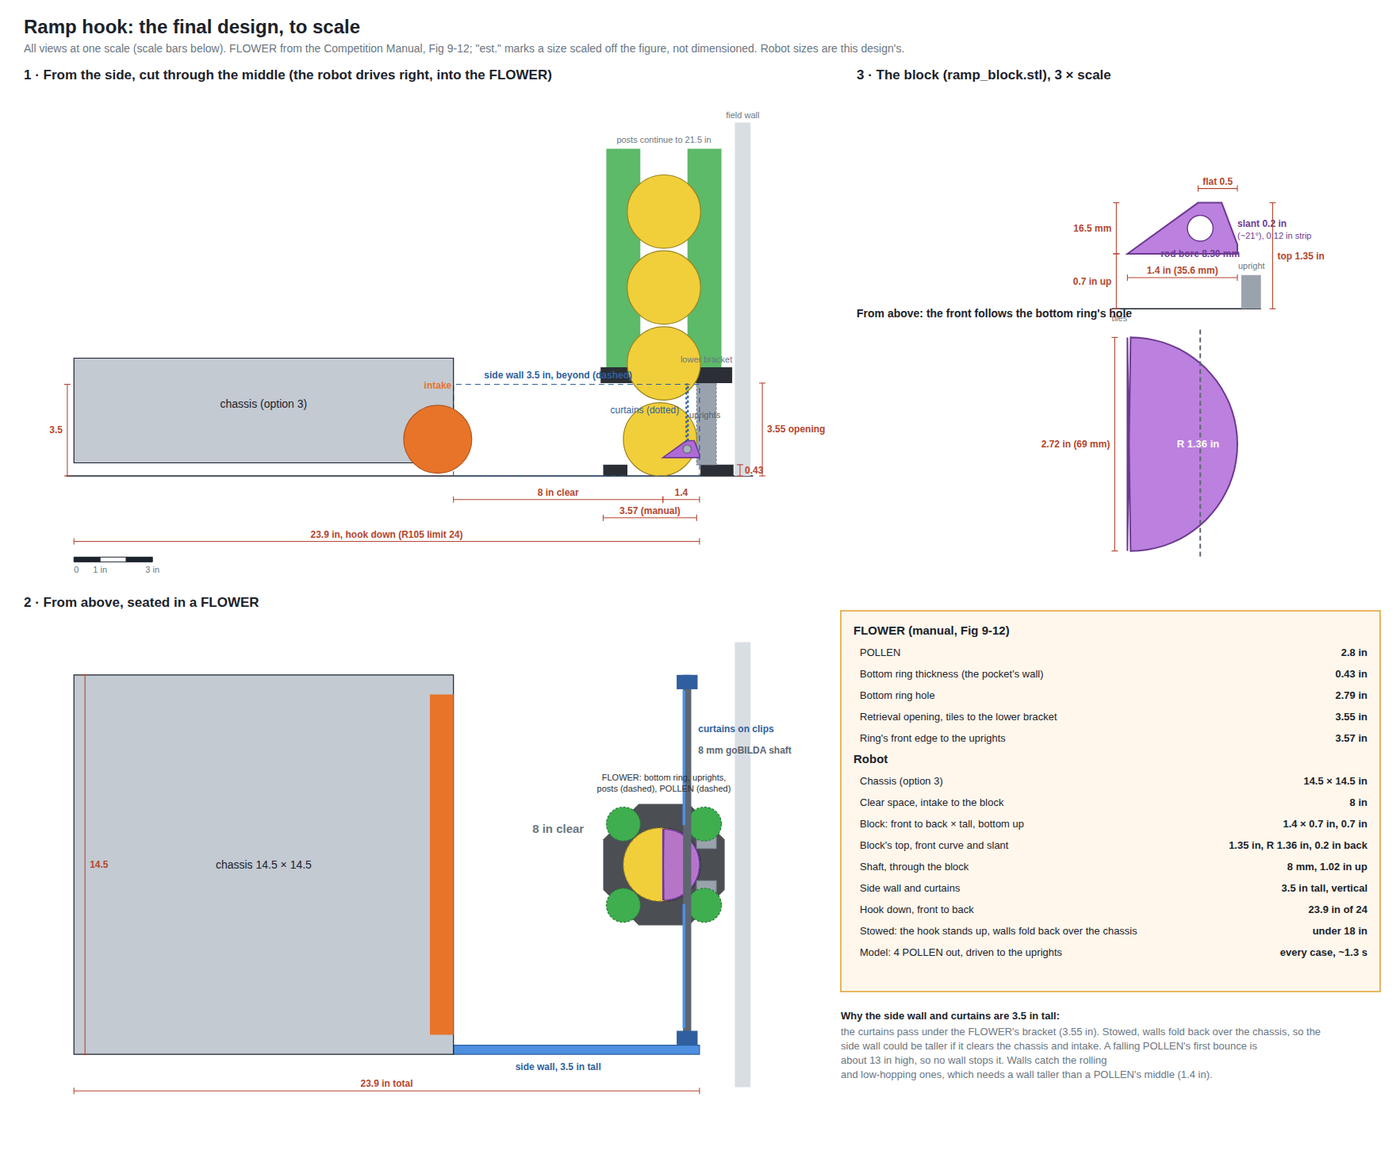
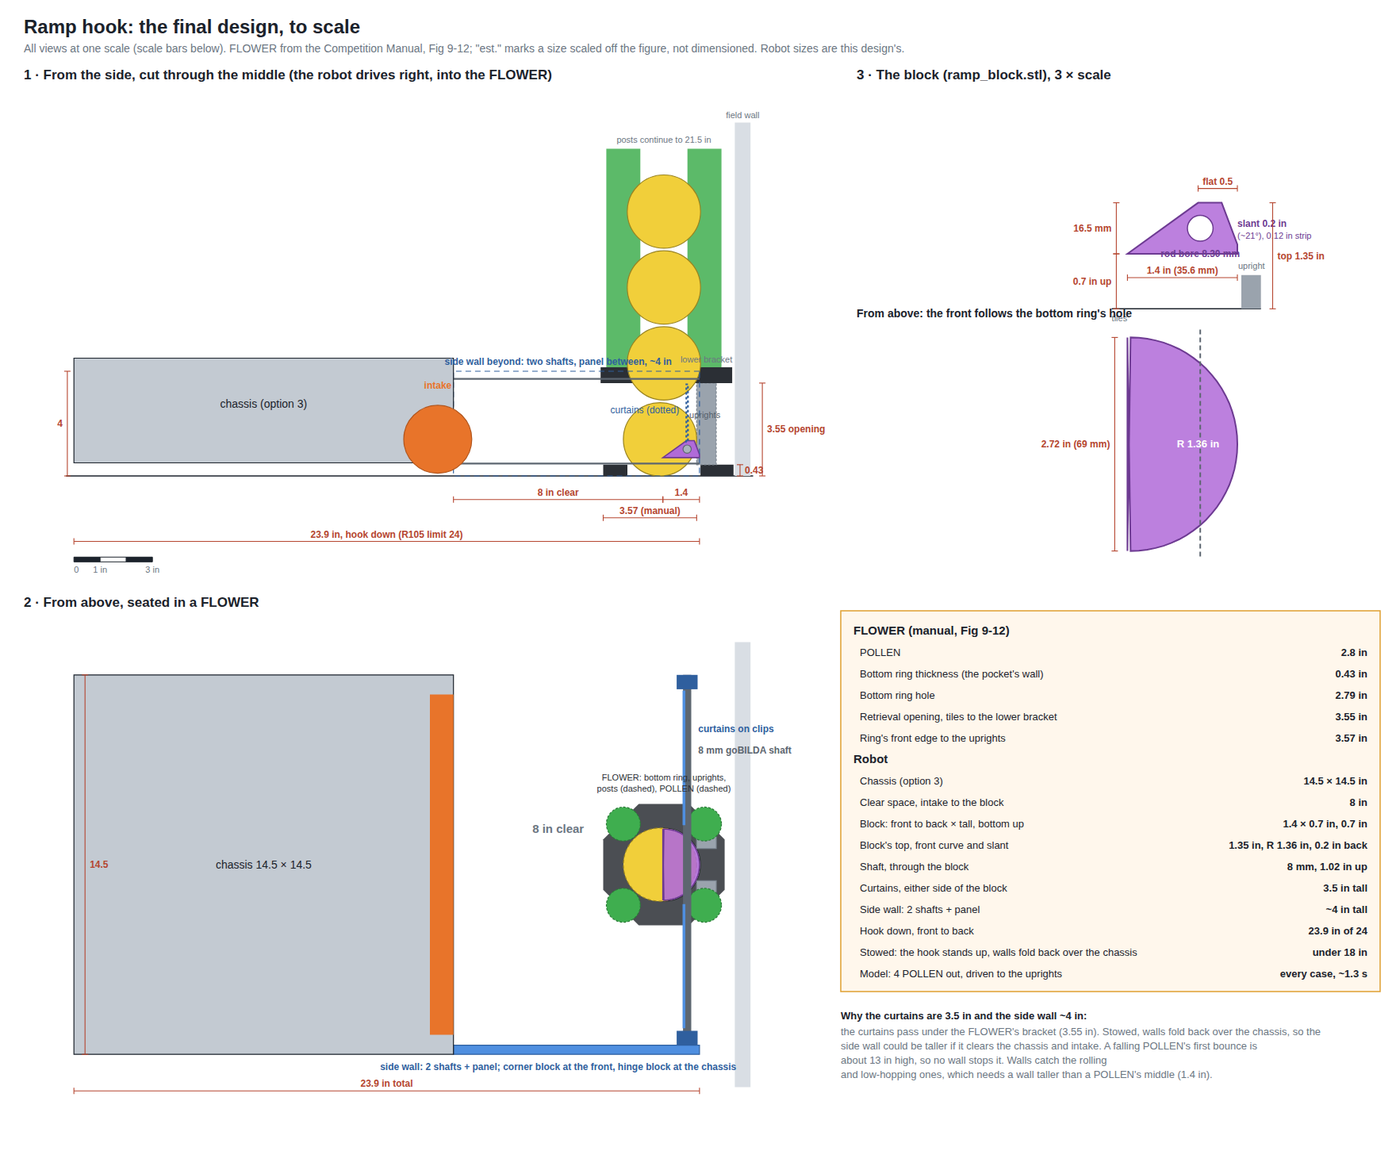
Ramp hook: side wall as a two-shaft ladder, with printed corner and hinge blocks
The side wall uses the same 8 mm shafts, clips and polycarbonate as the front:
two shafts (bottom and ~4 in top) with a panel between. corner_block.stl joins
them to the front shaft; hinge_block.stl turns on an 8 mm axle at the chassis.
README, parts picture, final sheet and doc updated.

Claude-Session: https://claude.ai/code/session_01JdYEXnCQjRUKj5bqHN7SCK

diff --git a/cad/ramp-hook/parts.py b/cad/ramp-hook/parts.py
@@ -1,7 +1,7 @@
 """Printable parts for the ramp hook's FLOWER block, threaded on a stock rod (cad/ramp-hook/README.md).
 
     pip install trimesh manifold3d
-    python3 cad/ramp-hook/parts.py          # writes ramp_block.stl, curtain_clip.stl, end_block.stl, fit_coupon.stl
+    python3 cad/ramp-hook/parts.py          # writes ramp_block, curtain_clip, end_block, corner_block, hinge_block, fit_coupon .stl
 
 Millimetres, Z up, each part flat on the bed as it should print. Every size is a constant below, so a part can be
 re-run after Thursday's measurements. The block's shape is the one tools/ramp-hook/ramp.py likes best against the
@@ -35,6 +35,14 @@ SCREW_D = 2.6                # M3 self-tapping set screws from underneath, into 
 PANEL_T = 1.6                # 1/16 in polycarbonate curtain
 CLIP_W = 16.0                # along the rod
 END_HOLE_D, END_HOLE_PITCH = 4.2, 16.0   # M4, 16 mm apart: lines up with goBILDA's 8 mm grid of 4 mm holes
+# ---- the side wall: a ladder of two 8 mm shafts with a polycarbonate panel clipped between them ----
+GAP = 8.0 * IN               # clear space, chassis face to the block's back edge
+HINGE_X = -GAP               # the chassis' front face, in this frame (x from the block's back edge)
+SIDE_Y = 7.25 * IN - 8.0     # the side wall's rods, 8 mm in from the robot's right edge (14.5 in wide)
+SIDE_Z_LO = 12.0             # bottom rod centre above the tiles
+SIDE_Z_HI = 4.0 * IN - 7.5   # top rod centre: a clip flipped over it tops out at 4 in
+PIVOT_Z = 40.0               # hinge axle above the tiles, clear of the bottom rod's bore
+BORE = ROD_D + FIT
 
 
 def prism_xz(points, y0, y1):
@@ -104,6 +112,69 @@ def end_block():
     return body.difference(trimesh.util.concatenate(holes))
 
 
+def x_hole(x0, x1, y, z, d):
+    """A bore along x from x0 to x1."""
+    c = cylinder(radius=d / 2, height=x1 - x0, sections=48)
+    c.apply_transform(trimesh.transformations.rotation_matrix(math.pi / 2, [0, 1, 0]))
+    c.apply_translation([(x0 + x1) / 2, y, z])
+    return c
+
+
+def y_hole(y0, y1, x, z, d):
+    """A bore along y from y0 to y1."""
+    c = cylinder(radius=d / 2, height=y1 - y0, sections=48)
+    c.apply_transform(trimesh.transformations.rotation_matrix(math.pi / 2, [1, 0, 0]))
+    c.apply_translation([x, (y0 + y1) / 2, z])
+    return c
+
+
+def z_hole(z0, z1, x, y, d):
+    c = cylinder(radius=d / 2, height=z1 - z0, sections=24)
+    c.apply_translation([x, y, (z0 + z1) / 2])
+    return c
+
+
+def slab(x0, x1, y0, y1, z0, z1):
+    b = box(extents=[x1 - x0, y1 - y0, z1 - z0])
+    b.apply_translation([(x0 + x1) / 2, (y0 + y1) / 2, (z0 + z1) / 2])
+    return b
+
+
+def corner_block():
+    """The hook's front-right corner, in the hook's frame (x from the block's back edge, y to the robot's right, z up).
+    Holds the front shaft's right end (along y) and the side wall's two rods' front ends (along x), all blind, at
+    three different heights so the bores never meet. M3 set screws into each."""
+    x0, x1 = ROD_X - 14.0, DEPTH
+    y0, y1 = SIDE_Y - 10.0, SIDE_Y + 8.0
+    z0, z1 = 2.0, SIDE_Z_HI + 10.0
+    body = slab(x0, x1, y0, y1, z0, z1)
+    holes = [y_hole(y0 - 1, SIDE_Y + 4.0, ROD_X, ROD_Z, BORE),                  # front shaft, from the inside
+             x_hole(x0 - 1, ROD_X + 6.0, SIDE_Y, SIDE_Z_LO, BORE),               # side wall, bottom rod
+             x_hole(x0 - 1, ROD_X + 6.0, SIDE_Y, SIDE_Z_HI, BORE),               # side wall, top rod
+             y_hole(SIDE_Y + 3.0, y1 + 1, ROD_X, ROD_Z, SCREW_D),                # set screw into the front shaft
+             z_hole(z0 - 1, SIDE_Z_LO, ROD_X - 6.0, SIDE_Y, SCREW_D),            # ...into the bottom rod
+             z_hole(SIDE_Z_HI, z1 + 1, ROD_X - 6.0, SIDE_Y, SCREW_D)]            # ...into the top rod
+    return body.difference(trimesh.util.concatenate(holes))
+
+
+def hinge_block():
+    """The side wall's back end, at the chassis' front face. Holds the two rods' back ends (blind, along x) and turns
+    on an 8 mm goBILDA shaft (along y) carried in bearings or pillow blocks on the chassis. The hook swings up about
+    it to stow."""
+    x0, x1 = HINGE_X + 2.0, HINGE_X + 36.0
+    y0, y1 = SIDE_Y - 24.0, SIDE_Y + 8.0
+    z0, z1 = 2.0, SIDE_Z_HI + 10.0
+    body = slab(x0, x1, y0, y1, z0, z1)
+    pivot_x = HINGE_X + 10.0
+    holes = [x_hole(x1 - 20.0, x1 + 1, SIDE_Y, SIDE_Z_LO, BORE),
+             x_hole(x1 - 20.0, x1 + 1, SIDE_Y, SIDE_Z_HI, BORE),
+             y_hole(y0 - 1, y1 + 1, pivot_x, PIVOT_Z, BORE),                   # the hinge axle, right through
+             z_hole(z0 - 1, SIDE_Z_LO, x1 - 10.0, SIDE_Y, SCREW_D),
+             z_hole(SIDE_Z_HI, z1 + 1, x1 - 10.0, SIDE_Y, SCREW_D),
+             z_hole(PIVOT_Z, z1 + 1, pivot_x, SIDE_Y - 12.0, SCREW_D)]          # locks the block to the axle
+    return body.difference(trimesh.util.concatenate(holes))
+
+
 def fit_coupon():
     """Four short bores at 0.1 mm steps around ROD_D + FIT: slide the rod in, keep the snug one."""
     parts, holes = [], []
@@ -116,6 +187,7 @@ def fit_coupon():
 def main():
     out = {}
     for name, fn in (("ramp_block", ramp_block), ("curtain_clip", curtain_clip), ("end_block", end_block),
+                     ("corner_block", corner_block), ("hinge_block", hinge_block),
                      ("fit_coupon", fit_coupon)):
         m = fn()
         m.apply_translation([0, 0, -m.bounds[0][2]])

diff --git a/tools/ramp-hook/final_sheet.py b/tools/ramp-hook/final_sheet.py
@@ -38,7 +38,8 @@ TIP = FC - ARC_R                # the block's tip on the centreline (the curve i
 BACK = TIP + DEPTH              # the block's back edge
 ROD_X, ROD_Z, ROD_R = TIP + (P.DEPTH - P.ROD_X) / IN, P.ROD_Z / IN, P.ROD_D / IN / 2
 FACE = BACK + GAP               # chassis front face (the intake)
-WALL_H = 3.5                    # side wall and curtains: the curtains pass under the FLOWER's bracket (3.55)
+WALL_H = 3.5                    # curtains: they pass under the FLOWER's bracket (3.55)
+SIDE_H = 4.0                    # side wall: a ladder of two 8 mm shafts with a panel between, ~4 in to the top clips
 CURT_B = 1.3                    # curtains' bottom, on the clips
 HW = CH / 2
 
@@ -120,14 +121,16 @@ poly([(X(TIP), Z(BOTTOM)), (X(TIP), Z(BOTTOM + LA)), (X(TIP + SL), Z(TOP)), (X(T
 circle(X(ROD_X), Z(ROD_Z), ROD_R * K, fill=ALU, stroke="#5d6670")
 # curtains (beyond, either side of the block) and the side wall (beyond)
 poly([(X(ROD_X - 0.03), Z(WALL_H)), (X(ROD_X + 0.03), Z(WALL_H)), (X(ROD_X + 0.03), Z(CURT_B)), (X(ROD_X - 0.03), Z(CURT_B))], stroke=DBLUE, sw=2.2, dash="3 3")
-poly([(X(TIP), Z(WALL_H)), (X(FACE), Z(WALL_H)), (X(FACE), Z(0)), (X(TIP), Z(0))], stroke=DBLUE, sw=1.2, dash="7 5")
+poly([(X(TIP), Z(SIDE_H)), (X(FACE), Z(SIDE_H)), (X(FACE), Z(0)), (X(TIP), Z(0))], stroke=DBLUE, sw=1.2, dash="7 5")
+for zz in (P.SIDE_Z_LO / IN, P.SIDE_Z_HI / IN):
+    line(X(TIP), Z(zz), X(FACE), Z(zz), "#5d6670", 2.2)
 # robot
 poly([(X(FACE + CH), Z(4.5)), (X(FACE), Z(4.5)), (X(FACE), Z(0.5)), (X(FACE + CH), Z(0.5))], fill=GREY, stroke=INK)
 circle(X(FACE + 0.6), Z(1.4), 1.3 * K, fill=ORANGE, stroke="#b2561d")
 text(X(FACE + CH / 2), Z(2.6), "chassis (option 3)", 14, INK, "middle")
 text(X(FACE + 0.6), Z(3.2) - 4, "intake", 12, ORANGE, "middle", 700)
 # labels and dimensions
-text(X(GAP / 2 + BACK), Z(WALL_H) - 8, f"side wall {WALL_H:g} in, beyond (dashed)", 12, DBLUE, "middle", 700)
+text(X(GAP / 2 + BACK), Z(SIDE_H) - 8, f"side wall beyond: two shafts, panel between, ~{SIDE_H:g} in", 12, DBLUE, "middle", 700)
 text(X(ROD_X) - 10, Z(2.4), "curtains (dotted)", 12, DBLUE, "end")
 text(X(UP_FACE - UP_T / 2), Z(OPEN / 2) + 4, "", 11)
 dim(X(FACE), Z(-0.9), X(BACK), Z(-0.9), f"{GAP:g} in clear")
@@ -136,7 +139,7 @@ dim(X(FACE + CH), Z(-2.5), X(TIP), Z(-2.5), f"{CH + FACE - TIP:.1f} in, hook dow
 dim(X(RING_FRONT), Z(-1.6), X(UP_FACE), Z(-1.6), "3.57 (manual)")
 dim(X(-0.2), Z(0), X(-0.2), Z(RING_T), "0.43", 1)
 dim(X(-1.05), Z(0), X(-1.05), Z(OPEN), "3.55 opening", 1)
-dim(X(FACE + CH + 0.25), Z(0), X(FACE + CH + 0.25), Z(WALL_H), f"{WALL_H:g}", -1)
+dim(X(FACE + CH + 0.25), Z(0), X(FACE + CH + 0.25), Z(SIDE_H), f"{SIDE_H:g}", -1)
 text(X(UP_FACE - UP_T / 2), Z(OPEN) - BRACKET_T * K - 6, "lower bracket", 11, DIM, "middle")
 text(X(UP_FACE - UP_T / 2) - 2, Z(2.2), "uprights", 11, "#55606b", "middle")
 scale_bar(X(FACE + CH), Z(-3.1), K)
@@ -178,7 +181,7 @@ poly([(X(FACE + CH), Y(-HW)), (X(FACE), Y(-HW)), (X(FACE), Y(HW)), (X(FACE + CH)
 poly([(X(FACE + 0.9), Y(-6.5)), (X(FACE), Y(-6.5)), (X(FACE), Y(6.5)), (X(FACE + 0.9), Y(6.5))], fill=ORANGE, stroke="none")
 text(X(FACE + CH / 2), Y(0) + 5, "chassis 14.5 × 14.5", 14, INK, "middle")
 text(X(BACK + GAP / 2), Y(-1.2), "8 in clear", 15, DIM, "middle", 700)
-text(X(BACK + GAP / 2), Y(HW) + 20, f"side wall, {WALL_H:g} in tall", 12, DBLUE, "middle", 700)
+text(X(BACK + GAP / 2), Y(HW) + 20, "side wall: 2 shafts + panel; corner block at the front, hinge block at the chassis", 12, DBLUE, "middle", 700)
 text(X(ROD_X) + 14, Y(-HW + 2.2), "curtains on clips", 12, DBLUE, "start", 700)
 text(X(ROD_X) + 14, Y(-HW + 3.0), "8 mm goBILDA shaft", 12, "#5d6670", "start", 700)
 text(X(FC), Y(-3.2), "FLOWER: bottom ring, uprights,", 11, BLK, "middle")
@@ -231,7 +234,8 @@ rows = [("FLOWER (manual, Fig 9-12)", None),
         ("Block: front to back × tall, bottom up", f"{DEPTH:g} × {TOP - BOTTOM:.1f} in, {BOTTOM:g} in"),
         ("Block's top, front curve and slant", f"{TOP:g} in, R {ARC_R:.2f} in, {P.SLANT / IN:g} in back"),
         ("Shaft, through the block", f"8 mm, {ROD_Z:.2f} in up"),
-        ("Side wall and curtains", f"{WALL_H:g} in tall, vertical"),
+        ("Curtains, either side of the block", f"{WALL_H:g} in tall"),
+        ("Side wall: 2 shafts + panel", f"~{SIDE_H:g} in tall"),
         ("Hook down, front to back", f"{CH + FACE - TIP:.1f} in of 24"),
         ("Stowed: the hook stands up, walls fold back over the chassis", "under 18 in"),
         ("Model: 4 POLLEN out, driven to the uprights", "every case, ~1.3 s")]
@@ -243,7 +247,7 @@ for label, val in rows:
         text(bx0 + 24, y, label, 13, INK)
         text(1724, y, val, 13, INK, "end", 700)
     y += 27
-text(1060, 1285, f"Why the side wall and curtains are {WALL_H:g} in tall:", 13, INK, "start", 700)
+text(1060, 1285, f"Why the curtains are {WALL_H:g} in and the side wall ~{SIDE_H:g} in:", 13, INK, "start", 700)
 text(1060, 1305, "the curtains pass under the FLOWER's bracket (3.55 in). Stowed, walls fold back over the chassis, so the", 13, DIM)
 text(1060, 1323, "side wall could be taller if it clears the chassis and intake. A falling POLLEN's first bounce is", 13, DIM)
 text(1060, 1341, "about 13 in high, so no wall stops it. Walls catch the rolling", 13, DIM)

diff --git a/cad/ramp-hook/render.py b/cad/ramp-hook/render.py
@@ -28,24 +28,43 @@ def placed(name, dx=0.0, dy=0.0, dz=0.0, rz=0.0):
 
 
 def scene():
-    """The hook's front in the tile frame, mm: x toward the FLOWER, y across the robot, z up from the tiles."""
+    """The hook in its frame, mm: x toward the FLOWER (from the block's back edge), y to the robot's right, z up."""
     items = []
-    block = placed("ramp_block", dz=P.BOTTOM)
-    items.append((block, (176, 106, 216)))
-    rod_len = 14.0 * IN
-    rod = trimesh.creation.cylinder(radius=P.ROD_D / 2, height=rod_len, sections=32)
+    steel, clipc, panelc, darkc = (170, 178, 188), (79, 143, 224), (160, 196, 240), (47, 95, 158)
+    items.append((placed("ramp_block", dz=P.BOTTOM), (176, 106, 216)))
+    # front shaft: from the left end to the corner block
+    y_left, y_right = -P.SIDE_Y, P.SIDE_Y + 4.0
+    rod = trimesh.creation.cylinder(radius=P.ROD_D / 2, height=y_right - y_left, sections=32)
     rod.apply_transform(trimesh.transformations.rotation_matrix(math.pi / 2, [1, 0, 0]))
-    rod.apply_translation([P.ROD_X, 0, P.ROD_Z])
-    items.append((rod, (170, 178, 188)))
-    clip_z = P.ROD_Z - 7.5
-    for y in (-60.0, -120.0, 60.0, 120.0):
-        items.append((placed("curtain_clip", dx=P.ROD_X, dy=y, dz=clip_z), (79, 143, 224)))
-    for y in (-rod_len / 2 + 7, rod_len / 2 - 7):
-        items.append((placed("end_block", dx=P.ROD_X, dy=y, dz=0, rz=0 if y > 0 else math.pi), (47, 95, 158)))
-    for y0, y1 in ((-rod_len / 2 + 14, -P.ARC_R - 4), (P.ARC_R + 4, rod_len / 2 - 14)):
+    rod.apply_translation([P.ROD_X, (y_left + y_right) / 2, P.ROD_Z])
+    items.append((rod, steel))
+    for y in (-P.ARC_R - 4, P.ARC_R + 4):               # clamping collars either side of the block
+        c = trimesh.creation.cylinder(radius=11, height=8, sections=32)
+        c.apply_transform(trimesh.transformations.rotation_matrix(math.pi / 2, [1, 0, 0]))
+        c.apply_translation([P.ROD_X, y + (6 if y > 0 else -6), P.ROD_Z]); items.append((c, steel))
+    for y in (-60.0, -130.0, 60.0, 130.0):
+        items.append((placed("curtain_clip", dx=P.ROD_X, dy=y, dz=P.ROD_Z - 7.5), clipc))
+    for y0, y1 in ((y_left + 6, -P.ARC_R - 16), (P.ARC_R + 16, P.SIDE_Y - 12)):
         panel = trimesh.creation.box(extents=[P.PANEL_T, y1 - y0, 3.5 * IN - 1.3 * IN])
         panel.apply_translation([P.ROD_X, (y0 + y1) / 2, 1.3 * IN + (3.5 * IN - 1.3 * IN) / 2])
-        items.append((panel, (160, 196, 240)))
+        items.append((panel, panelc))
+    # side wall: corner block, hinge block, two rods, clips (flipped on the top rod), a panel between
+    items.append((placed("corner_block", dz=2.0), darkc))
+    items.append((placed("hinge_block", dz=2.0), darkc))
+    x0, x1 = P.HINGE_X + 16.0, P.ROD_X + 6.0
+    for z in (P.SIDE_Z_LO, P.SIDE_Z_HI):
+        r = trimesh.creation.cylinder(radius=P.ROD_D / 2, height=x1 - x0, sections=32)
+        r.apply_transform(trimesh.transformations.rotation_matrix(math.pi / 2, [0, 1, 0]))
+        r.apply_translation([(x0 + x1) / 2, P.SIDE_Y, z]); items.append((r, steel))
+    for x in (-140.0, -50.0):
+        items.append((placed("curtain_clip", dx=x, dy=P.SIDE_Y, dz=P.SIDE_Z_LO - 7.5, rz=math.pi / 2), clipc))
+        top = trimesh.load(os.path.join(HERE, "curtain_clip.stl"))
+        top.apply_transform(trimesh.transformations.rotation_matrix(math.pi, [1, 0, 0]))
+        top.apply_transform(trimesh.transformations.rotation_matrix(math.pi / 2, [0, 0, 1]))
+        top.apply_translation([x, P.SIDE_Y, P.SIDE_Z_HI + 7.5]); items.append((top, clipc))
+    side = trimesh.creation.box(extents=[(P.ROD_X - 14) - (P.HINGE_X + 36), P.PANEL_T, P.SIDE_Z_HI - P.SIDE_Z_LO - 13])
+    side.apply_translation([((P.ROD_X - 14) + (P.HINGE_X + 36)) / 2, P.SIDE_Y, (P.SIDE_Z_LO + P.SIDE_Z_HI) / 2])
+    items.append((side, panelc))
     return items
 
 
@@ -87,10 +106,10 @@ def main():
          '<rect width="100%" height="100%" fill="#ffffff"/>']
     t = lambda x, y, s, size=15, fill="#1b222b", anchor="start", w=400: o.append(
         f'<text x="{x}" y="{y}" font-size="{size}" fill="{fill}" text-anchor="{anchor}" font-weight="{w}">{s}</text>')
-    t(30, 40, "Ramp hook: printed parts on a goBILDA 8 mm shaft", 22, w=700)
-    t(30, 64, "Purple: the FLOWER block (curved front nests between the grey uprights). Blue: curtain clips and end blocks. Light blue: 1/16 in polycarbonate curtains.", 14, "#6b7682")
-    o += draw(scene(), 470, 470, 1.55)
-    t(470, 850, "The hook's front, 3/4 view from the FLOWER side. The block sits in the middle, the curtains either side.", 14, "#6b7682", "middle")
+    t(30, 40, "Ramp hook: printed parts on goBILDA 8 mm shafts", 22, w=700)
+    t(30, 64, "Purple: the FLOWER block. Dark blue: corner block and hinge block. Blue: clips. Light blue: 1/16 in polycarbonate. The side wall is a ladder: two shafts, a panel between.", 14, "#6b7682")
+    o += draw(scene(), 560, 470, 1.25)
+    t(470, 850, "The whole hook, 3/4 view from the FLOWER side: the block in the middle of the front shaft, the side wall on the right, the hinge at the back.", 14, "#6b7682", "middle")
     # the block alone, larger
     block = trimesh.load(os.path.join(HERE, "ramp_block.stl"))
     o += draw([(block, (176, 106, 216))], 1170, 330, 5.0)

diff --git a/cad/ramp-hook/README.md b/cad/ramp-hook/README.md
@@ -1,7 +1,13 @@
 # Ramp hook: printed parts on a goBILDA 8 mm shaft
 
-The FLOWER block for the ramp hook (`doc/ramp-hook.md`), threaded with curtain clips onto one straight 8 mm shaft
-across the hook's front. The ends bolt onto goBILDA structure on its 8 mm grid. Nothing here has been fitted to a
+The whole ramp hook (`doc/ramp-hook.md`) from three goBILDA 8 mm shafts, 1/16 in polycarbonate and printed parts:
+
+- **The front:** one shaft across the hook. The FLOWER block and the curtain clips thread onto it.
+- **The side wall:** a ladder of two shafts, a bottom one and a top one, with a polycarbonate panel clipped
+  between them. It's the hook's backbone: the block's push goes front shaft → corner block → side wall → hinge.
+- **The corner block** joins the front shaft to the side wall's two shafts at the front-right corner.
+- **The hinge block** holds the side wall's back ends at the chassis' front face and turns on a fourth shaft
+  carried by the chassis, so the hook swings up to stow. Nothing here has been fitted to a
 robot or a real FLOWER yet: print, test on Thursday, adjust the numbers at the top of `parts.py`, and print again.
 
 ![The parts on the shaft, and the block](parts.png)
@@ -11,8 +17,10 @@ robot or a real FLOWER yet: print, test on Thursday, adjust the numbers at the t
 | File | What it is | Print |
 |---|---|---|
 | `ramp_block.stl` | The FLOWER block: 1.4 in front to back, 0.7 to 1.35 in above the tiles, curved front | 1 |
-| `curtain_clip.stl` | Slides on the shaft and holds a curtain panel upright in a slot | 4 |
-| `end_block.stl` | Bolts to goBILDA channel (M4, 16 mm apart) and holds the shaft's end | 2 |
+| `curtain_clip.stl` | Slides on a shaft and holds a panel in its slot: upright on the front shaft and the side wall's bottom shaft, flipped over on the top shaft | 8 |
+| `corner_block.stl` | The front-right corner: the front shaft's end and both side-wall shafts, blind bores at three heights | 1 |
+| `hinge_block.stl` | The side wall's back end; turns on an 8 mm hinge axle across the chassis' face | 1 |
+| `end_block.stl` | Spare: holds a shaft end against goBILDA channel (M4, 16 mm apart), if the front shaft's left end needs one | 0 to 1 |
 | `fit_coupon.stl` | Four short bores at 0.1 mm steps, to find your printer's fit on the shaft | 1, first |
 | `parts.py` | Makes the STLs. Every size is a constant at the top | `pip install trimesh manifold3d shapely` |
 | `render.py` | Draws the picture above | |
@@ -41,12 +49,12 @@ Check part numbers and lengths on gobilda.com; these are the kinds of parts, not
 
 | Item | Notes |
 |---|---|
-| goBILDA 8 mm REX shaft, about 14 in (350 mm or longer, cut) | Its rounded corners sit on an 8 mm circle, so it slides in the round bore, and the set screws bite on a flat. Any 8 mm round shaft works too |
+| goBILDA 8 mm REX shafts: one about 14 in (front), two about 8.5 in (side wall), one for the hinge axle | Their rounded corners sit on an 8 mm circle, so they slide in the round bores, and the set screws bite on a flat. Any 8 mm round shaft works too. Cut from longer stock |
+| goBILDA bearings or pillow blocks for 8 mm, 2 | On the chassis, carrying the hinge axle |
 | 2 to 4 goBILDA clamping collars for 8 mm REX | Either side of the block: they locate it sideways. Better than set screws alone |
-| goBILDA U-channel (or the robot's own side-wall channel) | The end blocks bolt to it. One end on the side wall; the other on a short channel stub at the hook's left front corner |
-| M4 socket screws and nylock nuts, 4 | Through the channel into the end blocks. The holes are 16 mm apart, which lines up with goBILDA's 8 mm grid |
-| M3 screws: 2 short set screws for the block, 1 per clip, plus 8 to clamp the panels | Self-tapping into the printed holes |
-| 1/16 in polycarbonate, two panels about 4.9 × 2.2 in | The curtains, either side of the block. Their tops are 3.5 in above the tiles, under the FLOWER's 3.55 in bracket |
+
+| M3 screws: 2 set screws for the block, 3 for the corner block, 3 for the hinge block, 1 per clip, 2 per clip to clamp the panels | Self-tapping into the printed holes |
+| 1/16 in polycarbonate: two curtain panels about 4.9 × 2.2 in, one side panel about 7 × 2.7 in | The curtains' tops are 3.5 in above the tiles, under the FLOWER's 3.55 in bracket. The side wall tops out at about 4 in |
 
 ## Print (send your friend this section and the STLs)
 
@@ -63,14 +71,20 @@ Check part numbers and lengths on gobilda.com; these are the kinds of parts, not
 
 ## Assemble
 
-1. Bolt one end block to the inside of the side wall and the other to a short channel stub at the hook's left front
-   corner, bores facing each other at the same height (1.02 in above the tiles with the hook down).
-2. Thread the shaft through one end block, two clips, a collar, the ramp block, a collar, two more clips, and into
-   the other end block.
-3. Line the block up with the middle of the intake. Tighten the collars against it and the set screws from
-   underneath.
-4. Slide the curtain panels into the clips' slots, square them up, and screw through the clip's two holes.
-5. Check with the hook down on a tile: the block's bottom should be 0.7 in above the tiles, and its top 1.35 in.
+1. Push the side wall's two shafts into the hinge block's two bores, thread two clips on each (flip the top two
+   over), and push the shafts' other ends into the corner block. Slide the side panel into the clips and screw it.
+2. Thread the front shaft through two clips, a collar, the FLOWER block, a collar and two more clips, then into the
+   corner block's sideways bore from the inside.
+3. Line the FLOWER block up with the middle of the intake; tighten the collars and its set screws. Tighten the
+   corner block's and hinge block's set screws.
+4. Slide the curtain panels into the front clips and screw them.
+5. Pass the hinge axle through the chassis bearings and the hinge block, and lock it with the hinge block's set
+   screw. The hook's swing (servo or spring) is the build team's to add.
+6. Check with the hook down on a tile: the block's bottom 0.7 in above the tiles, its top 1.35 in, and the hook
+   level from the hinge to the front.
+
+**The front shaft's left end is free.** The whole front hangs off the corner block. If the block flexes when it
+meets the FLOWER, add a diagonal brace from the left end back to the chassis, or an end block on a short channel.
 
 ## Test on Thursday
 

diff --git a/doc/ramp-hook.md b/doc/ramp-hook.md
@@ -25,7 +25,11 @@ Redraw with `python3 tools/ramp-hook/final_sheet.py`. Printable parts, what to b
 - **Driving:** push in until the block meets the uprights, and stay there. The FLOWER sets the depth and centres
   the robot. In `ramp.py` against the manual's FLOWER, all 4 POLLEN come out in every bounce guess, the last
   at the intake in about 1.2 s.
-- **Side wall and curtains: 3.5 in tall, vertical.**
+- **Side wall: a ladder of two 8 mm shafts with a polycarbonate panel between, about 4 in tall.** It's the hook's
+  backbone: the block's push goes front shaft → **corner block** → side wall → **hinge block** at the chassis' face,
+  which turns on an 8 mm axle in bearings on the chassis (`cad/ramp-hook/`). Two shafts with a panel between are
+  much stiffer than one. The front shaft's left end is free; brace it back to the chassis if it flexes.
+- **Curtains 3.5 in, side wall about 4 in:**
   - **The curtains** sit beside the block, and the FLOWER's lower bracket is 3.55 in up, so within about 2.4 in of
     the block's middle they have to stay under it. Further out they could be taller.
   - **The side wall isn't limited by the size rules.** Hook down, the robot is 23.9 in long and the R105 box
